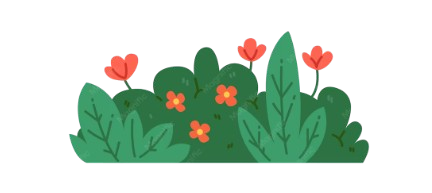
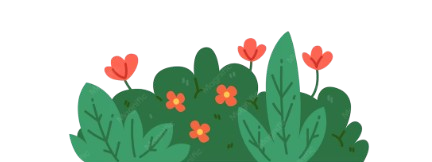
fixed dradropspelling ui bug

Changed region(s): [[0.1505, 0.1543, 0.8727, 1.0]]

diff --git a/lib/widgets/questions/drag_drop_spelling_widget.dart b/lib/widgets/questions/drag_drop_spelling_widget.dart
@@ -5,40 +5,67 @@ import '../../theme/app_theme.dart';
 class DragDropSpellingWidget extends StatefulWidget {
   final Question question;
   final Function(bool isCorrect) onCompleted;
+  final VoidCallback? onCorrectAttempt;
+  final VoidCallback? onWrongAttempt;
 
   const DragDropSpellingWidget({
     super.key,
     required this.question,
     required this.onCompleted,
+    this.onCorrectAttempt,
+    this.onWrongAttempt,
   });
 
   @override
   State<DragDropSpellingWidget> createState() => _DragDropSpellingWidgetState();
 }
 
-class _DragDropSpellingWidgetState extends State<DragDropSpellingWidget> {
+class _DragDropSpellingWidgetState extends State<DragDropSpellingWidget>
+    with SingleTickerProviderStateMixin {
+  static const int maxAttempts = 3;
   late List<String> _promptParts;
   late List<int> _blankIndices;
   late List<QuestionOption?> _filledOptions;
   late List<QuestionOption> _availableOptions;
   bool _isSubmitted = false;
   bool _isWrong = false;
+  int _attemptsUsed = 0;
+
+  late final AnimationController _feedbackController;
+  late final Animation<double> _shakeAnimation;
 
   @override
   void initState() {
     super.initState();
+    _feedbackController = AnimationController(
+      vsync: this,
+      duration: const Duration(milliseconds: 320),
+    );
+    _shakeAnimation =
+        TweenSequence<double>([
+          TweenSequenceItem(tween: Tween(begin: 0, end: -8), weight: 1),
+          TweenSequenceItem(tween: Tween(begin: -8, end: 8), weight: 2),
+          TweenSequenceItem(tween: Tween(begin: 8, end: -6), weight: 2),
+          TweenSequenceItem(tween: Tween(begin: -6, end: 6), weight: 2),
+          TweenSequenceItem(tween: Tween(begin: 6, end: 0), weight: 1),
+        ]).animate(
+          CurvedAnimation(parent: _feedbackController, curve: Curves.easeOut),
+        );
     _initGame();
   }
 
-  void _initGame() {
-    // Parse prompt: e.g., "d _ _ m _ n _" or "d__m_n_"
-    final prompt = widget.question.text;
+  @override
+  void dispose() {
+    _feedbackController.dispose();
+    super.dispose();
+  }
 
-    if (prompt.contains(' ')) {
-      _promptParts = prompt.split(' ').where((s) => s.isNotEmpty).toList();
-    } else {
-      _promptParts = prompt.split('');
-    }
+  void _initGame() {
+    // Parse prompt: e.g., "_ot__ook"
+    // We want every single letter and underscore to be its own block.
+    // Replace all spaces to ensure clean splitting of actual content.
+    final prompt = widget.question.text.replaceAll(' ', '');
+    _promptParts = prompt.split('');
 
     _blankIndices = [];
     for (int i = 0; i < _promptParts.length; i++) {
@@ -51,18 +78,11 @@ class _DragDropSpellingWidgetState extends State<DragDropSpellingWidget> {
     _availableOptions = List.from(widget.question.options)..shuffle();
     _isSubmitted = false;
     _isWrong = false;
+    _attemptsUsed = 0;
   }
 
   void _checkAnswer() {
     if (_filledOptions.contains(null)) return;
-
-    // The user example had comma-separated string in prompt, but model has List<String>?
-    // Let's handle both or check how it's actually parsed.
-    // In lib/models/question.dart:
-    // List<String>? correctOrder;
-    // if (data['correctOrder'] is List) {
-    //   correctOrder = (data['correctOrder'] as List).map((e) => e.toString()).toList();
-    // }
 
     final filledOrder = _filledOptions.map((e) => e?.text ?? '').toList();
 
@@ -80,30 +100,47 @@ class _DragDropSpellingWidgetState extends State<DragDropSpellingWidget> {
         }
       }
     } else {
-      // If no correctOrder provided, we might be in trouble, but let's assume it's there.
       isCorrect = false;
     }
 
-    setState(() {
-      _isSubmitted = true;
-      if (!isCorrect) {
-        _isWrong = true;
-        // Shake effect or similar could be added here
-        Future.delayed(const Duration(milliseconds: 1000), () {
-          if (mounted) {
-            setState(() {
-              _isWrong = false;
-              _isSubmitted = false;
-              // Return all to tray? Or let them swap?
-              // Requirements: "If wrong, shake the incorrect slots and let the student retry."
-            });
-          }
-        });
-      }
-    });
-
     if (isCorrect) {
+      widget.onCorrectAttempt?.call();
+      setState(() {
+        _isSubmitted = true;
+      });
       widget.onCompleted(true);
+    } else {
+      _attemptsUsed++;
+      widget.onWrongAttempt?.call();
+      _feedbackController.forward(from: 0);
+
+      if (_attemptsUsed >= maxAttempts) {
+        setState(() {
+          _isSubmitted = true;
+          _isWrong = true;
+        });
+        widget.onCompleted(false);
+        return;
+      }
+
+      setState(() {
+        _isSubmitted = true;
+        _isWrong = true;
+      });
+
+      Future.delayed(const Duration(milliseconds: 1000), () {
+        if (mounted) {
+          setState(() {
+            _isWrong = false;
+            _isSubmitted = false;
+            // Return all to tray for retry
+            for (var opt in _filledOptions) {
+              if (opt != null) _availableOptions.add(opt);
+            }
+            _filledOptions = List.filled(_blankIndices.length, null);
+          });
+        }
+      });
     }
   }
 
@@ -141,45 +178,115 @@ class _DragDropSpellingWidgetState extends State<DragDropSpellingWidget> {
   Widget build(BuildContext context) {
     return Column(
       children: [
+        _buildAttemptProgress(),
+        const SizedBox(height: AppSpacing.md),
         // Prompt Row
-        Wrap(
-          alignment: WrapAlignment.center,
-          spacing: AppSpacing.xs,
-          runSpacing: AppSpacing.sm,
-          children: List.generate(_promptParts.length, (i) {
-            final part = _promptParts[i];
-            if (part != '_') {
-              return _buildStaticLetter(part);
-            } else {
-              final blankIdx = _blankIndices.indexOf(i);
-              return _buildDropSlot(blankIdx);
-            }
-          }),
+        AnimatedBuilder(
+          animation: _feedbackController,
+          builder: (context, child) => Transform.translate(
+            offset: Offset(_shakeAnimation.value, 0),
+            child: child,
+          ),
+          child: Wrap(
+            alignment: WrapAlignment.center,
+            spacing: AppSpacing.xs,
+            runSpacing: AppSpacing.sm,
+            children: List.generate(_promptParts.length, (i) {
+              final part = _promptParts[i];
+              if (part != '_') {
+                return _buildStaticLetter(part);
+              } else {
+                final blankIdx = _blankIndices.indexOf(i);
+                return _buildDropSlot(blankIdx);
+              }
+            }),
+          ),
         ),
 
         const SizedBox(height: AppSpacing.xxl),
 
         // Options Tray
-        const Text(
-          'Drag letters to fill the blanks!',
-          style: AppTextStyles.small,
-        ),
-        const SizedBox(height: AppSpacing.md),
-        Wrap(
-          alignment: WrapAlignment.center,
-          spacing: AppSpacing.md,
-          runSpacing: AppSpacing.md,
-          children: _availableOptions.map((option) {
-            return Draggable<QuestionOption>(
-              data: option,
-              feedback: _buildLetterTile(option.text, isDragging: true),
-              childWhenDragging: Opacity(
-                opacity: 0.3,
+        if (!_isSubmitted || !_isWrong) ...[
+          const Text(
+            'Drag letters to fill the blanks!',
+            style: AppTextStyles.small,
+          ),
+          const SizedBox(height: AppSpacing.md),
+          Wrap(
+            alignment: WrapAlignment.center,
+            spacing: AppSpacing.md,
+            runSpacing: AppSpacing.md,
+            children: _availableOptions.map((option) {
+              return Draggable<QuestionOption>(
+                data: option,
+                feedback: _buildLetterTile(option.text, isDragging: true),
+                childWhenDragging: Opacity(
+                  opacity: 0.3,
+                  child: _buildLetterTile(option.text),
+                ),
                 child: _buildLetterTile(option.text),
+              );
+            }).toList(),
+          ),
+        ],
+      ],
+    );
+  }
+
+  Widget _buildAttemptProgress() {
+    return Column(
+      mainAxisSize: MainAxisSize.min,
+      children: [
+        const Text('Attempts', style: AppTextStyles.tiny),
+        const SizedBox(height: AppSpacing.xs),
+        Row(
+          mainAxisSize: MainAxisSize.min,
+          children: List.generate(maxAttempts, (index) {
+            final failed = index < _attemptsUsed;
+            final current =
+                !_isSubmitted &&
+                !failed &&
+                index == _attemptsUsed.clamp(0, maxAttempts - 1);
+            final successful =
+                _isSubmitted && !_isWrong && index == _attemptsUsed;
+
+            final color =
+                failed
+                    ? AppColors.destructive
+                    : successful
+                    ? AppColors.accent
+                    : current
+                    ? AppColors.primary
+                    : AppColors.border;
+
+            return Padding(
+              padding: const EdgeInsets.symmetric(horizontal: AppSpacing.xxs),
+              child: AnimatedContainer(
+                duration: const Duration(milliseconds: 150),
+                width: 20,
+                height: 20,
+                decoration: BoxDecoration(
+                  color: failed || successful ? color : AppColors.card,
+                  shape: BoxShape.circle,
+                  border: Border.all(color: color, width: current ? 2 : 1),
+                ),
+                child: Icon(
+                  failed
+                      ? Icons.close_rounded
+                      : successful
+                      ? Icons.check_rounded
+                      : Icons.circle,
+                  size: failed || successful ? 12 : 6,
+                  color:
+                      failed || successful
+                          ? Colors.white
+                          : current
+                          ? AppColors.primary
+                          : AppColors.border,
+                ),
               ),
-              child: _buildLetterTile(option.text),
             );
-          }).toList(),
+          }),
         ),
       ],
     );

diff --git a/lib/screens/child/level_session_screen.dart b/lib/screens/child/level_session_screen.dart
@@ -1016,6 +1016,13 @@ class _LevelSessionScreenState extends ConsumerState<LevelSessionScreen> {
         return DragDropSpellingWidget(
           key: ValueKey('dragdrop_${question.id}'),
           question: question,
+          onCorrectAttempt: () {
+            unawaited(_playStrokeCorrect(0));
+          },
+          onWrongAttempt: () {
+            unawaited(_playStrokeWrong());
+            _strokeHadWrongAttempt = true;
+          },
           onCompleted: (isCorrect) {
             setState(() {
               _dragDropSpellingSubmitted = true;
@@ -1298,6 +1305,9 @@ class _LevelSessionScreenState extends ConsumerState<LevelSessionScreen> {
     final type = question.type?.toLowerCase();
     if (type == 'matching') {
       return 'Oh no, better luck next time!';
+    }
+    if (type == 'dragdropspelling') {
+      return 'Not quite! Remember to check the letter order.';
     }
     if (type == 'stroke_trace') {
       return 'Not quite. Watch the stroke order and try again later.';

diff --git a/lib/screens/child/home_screen.dart b/lib/screens/child/home_screen.dart
@@ -247,11 +247,12 @@ class _ForestHero extends ConsumerWidget {
             Positioned(
               left: 0,
               right: 0,
-              bottom: -30,
+              bottom: -1,
               child: Image.asset(
                 'assets/images/grass.png',
-                fit: BoxFit.fitWidth,
-                alignment: Alignment.bottomCenter,
+                fit: BoxFit.cover,
+                alignment: Alignment.topCenter,
+                height: 80,
               ),
             ),
             // Column is the sizing child
@@ -399,7 +400,7 @@ class _ForestHero extends ConsumerWidget {
                   ),
                 ),
                 // Padding bottom for the column to keep content above grass visually
-                const SizedBox(height: 36),
+                const SizedBox(height: 60),
               ],
             ),
           ],